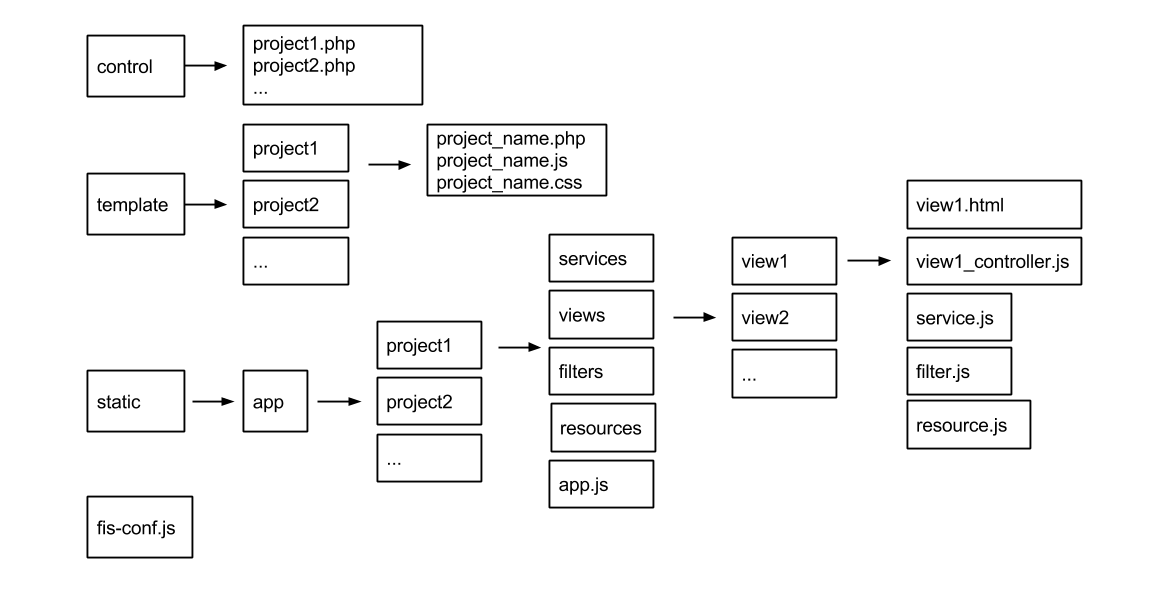
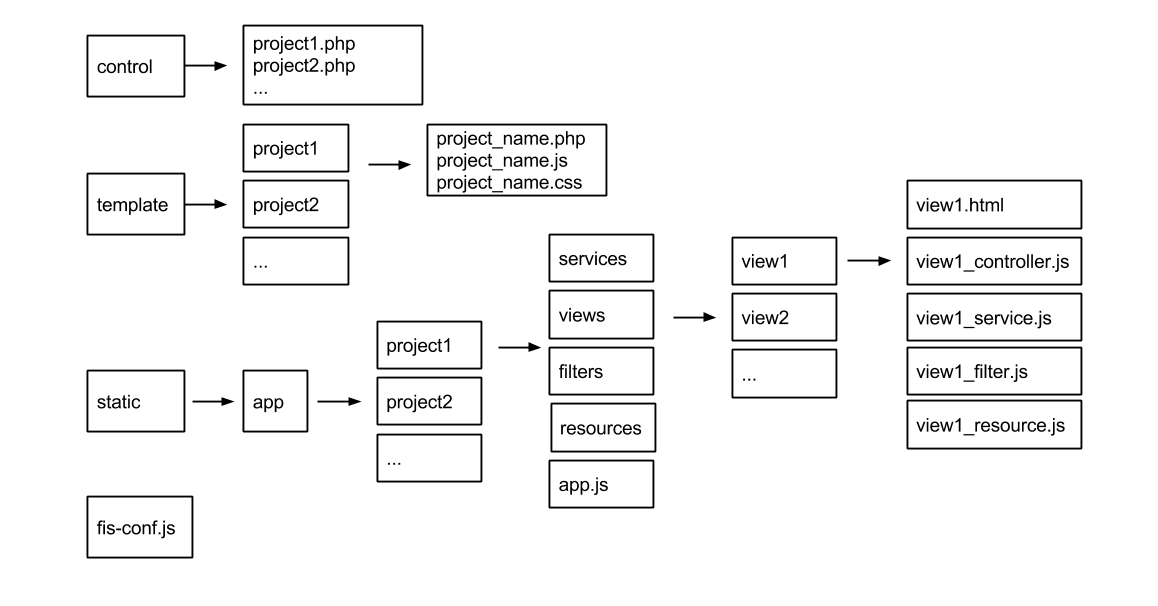
Site updated: 2014-11-13 10:23:18

Changed region(s): [[0.7772, 0.4752, 0.9326, 0.7426]]

diff --git a/2014/11/12/angularjs-new-dev-pattern/index.html b/2014/11/12/angularjs-new-dev-pattern/index.html
@@ -1,1 +1,1 @@
-<!DOCTYPE HTML><html><head><meta charset="utf-8"><title>内部平台静态开发方案2.0 | JSBear</title><meta name="author" content="JSBear Team"><meta name="description" content="我们是一群搞前端的熊孩子:()"><meta name="viewport" content="width=device-width,initial-scale=1,maximum-scale=1"><meta property="og:title" content="内部平台静态开发方案2.0"><meta property="og:site_name" content="JSBear"><meta property="og:image" content="undefined"><link href="/tbfe-home/favicon.png" rel="icon"><link rel="stylesheet" href="/tbfe-home/css/jquery.tocify.css" media="screen" type="text/css"><link rel="stylesheet" href="/tbfe-home/css/bootstrap.min.css" media="screen" type="text/css"><link rel="stylesheet" href="/tbfe-home/material/css/ripples.css" media="screen" type="text/css"><link rel="stylesheet" href="/tbfe-home/material/css/material.css" media="screen" type="text/css"><link rel="stylesheet" href="/tbfe-home/css/font-awesome.css" media="screen" type="text/css"><link rel="stylesheet" href="/tbfe-home/css/style.css" media="screen" type="text/css"><link rel="stylesheet" href="/tbfe-home/css/highlight.light.css" media="screen" type="text/css"><link rel="stylesheet" href="/tbfe-home/css/google-fonts.css" media="screen" type="text/css"><!--[if lt IE 9]><script src="//html5shiv.googlecode.com/svn/trunk/html5.js"></script><![endif]--><script src="/tbfe-home/js/jquery-2.0.3.min.js"></script></head><body><nav id="main-nav" class="navbar navbar-default" role="navigation"><div class="container"><button type="button" class="navbar-header navbar-toggle" data-toggle="collapse" data-target=".navbar-collapse"><span class="sr-only">Toggle navigation</span> <span class="icon-bar"></span> <span class="icon-bar"></span> <span class="icon-bar"></span></button> <a class="navbar-brand" href="/tbfe-home/">JSBear</a><div class="collapse navbar-collapse nav-menu"><ul class="nav navbar-nav navbar-right"><li><a href="/tbfe-home/"><i class="fa fa-home"></i>首页</a></li><li><a href="/tbfe-home/archives"><i class="fa fa-list"></i>存档</a></li><li><a href="/tbfe-home/categories"><i class="fa fa-folder"></i>分类</a></li><li><a href="/tbfe-home/categories/文档/"><i class="mdi-action-description"></i>文档</a></li><li><a href="/tbfe-home/works"><i class="mdi-action-polymer"></i>Works</a></li><li><a href="/tbfe-home/about"><i class="fa fa-info-circle"></i>关于</a></li><li><a href="/tbfe-home/atom.xml"><i class="fa fa-rss"></i>RSS</a></li></ul></div></div></nav><div class="clearfix"></div><div class="container"><div class="content"><div class="page-header"><h1>内部平台静态开发方案2.0</h1></div><div class="row post"><div class="col-md-9"><div class="mypage"><div class="row widget-wrapper"><div class="post-meta-item"><i class="fa fa-clock-o"></i> <span class="post-time">2014-11-12 20:16:39</span></div><div class="post-meta-item"><i class="mdi-action-face-unlock" title="作者"></i> <span>wayou</span></div><div class="post-meta-item"><i class="fa fa-folder"></i> <a class="label label-success" href="/tbfe-home/categories/文档/">文档</a></div><div class="post-meta-item"><i class="fa fa-tags"></i> <a class="label label-warning" href="/tbfe-home/tags/angularjs/">angularjs</a> <a class="label label-warning" href="/tbfe-home/tags/开发/">开发</a></div></div><p>感谢前人「刘凯，洪堂」的成果，站在巨人的肩上继续走得更远！</p><p>基于自己开发的开发过程，和收集的各种不便，内部平台现对之前的静态开发方案进行了一次升级。<br>这次改进是尝试性的，为是探求更好的开发方式，改进现有工作流程，提升效率和使开发更方便。<br>升级之后初始代码将变得更轻量，文件及三方库的添加更自由，同时更加符合Angular官方规范。</p><p>同时也作为新开发方式的一种探索和实践，为新版脚手架提供参考。</p><a id="more"></a><h1 id="模块化">模块化</h1><p>改变后的文案更多强调使用AngularJS原生及推荐的项目组织方式进行开发。特别是模块化方面，使用AngularJS自身的模块化系统，取消requrejs按需要加载的方式。AngularJS本身支持模块化，将所有文件一次性加载到页面，只有被用到的模块才会被实例化执行其中代码，所以没有必要引入<code>requirejs</code>。</p><h1 id="目录结构">目录结构</h1><p><img src="/tbfe-home/asset/posts/2014-11-12-angularjs-new-dev-pattern/angular.png" alt=""></p><p>上图只列出了与静态文案相关的目录及文件，现描述如下：</p><h2 id="control">control</h2><p>control 文件与原来的一样</p><h2 id="template">template</h2><p><code>template 文件</code>里引用 <code>devplatcommon 基础库</code> 模块的部分与原来一样，只是引用项目启动文件的方式进行了改变。</p><p>fis配置中将会在 <code>static/app/project_name/</code> 下生成一个 <code>app_all.js</code> 文件，在template里面将原来引用<code>app.js</code>的地方替换为引用此文件。</p><figure class="highlight php"><figcaption><span>before</span></figcaption><table><tr><td class="gutter"><pre><div class="line">1</div><div class="line">2</div><div class="line">3</div><div class="line">4</div><div class="line">5</div><div class="line">6</div></pre></td><td class="code"><pre><div class="line"><span class="preprocessor">&lt;?php</span></div><div class="line"><span class="comment">/**</span></div><div class="line"> * 如下代码用将由框架负责处理js资源加载到页面</div><div class="line"> */</div><div class="line"><span class="keyword">echo</span> HTML::js(<span class="string">'project_name/app.js'</span>, <span class="string">"module_name"</span>);</div><div class="line"><span class="preprocessor">?&gt;</span></div></pre></td></tr></table></figure><figure class="highlight php"><figcaption><span>after</span></figcaption><table><tr><td class="gutter"><pre><div class="line">1</div><div class="line">2</div><div class="line">3</div><div class="line">4</div><div class="line">5</div><div class="line">6</div></pre></td><td class="code"><pre><div class="line"><span class="preprocessor">&lt;?php</span></div><div class="line"><span class="comment">/**</span></div><div class="line"> * 如下代码用将由框架负责处理js资源加载到页面</div><div class="line"> */</div><div class="line"><span class="keyword">echo</span> HTML::js(<span class="string">'app/project_name/app_all.js'</span>, <span class="string">"module_name"</span>);</div><div class="line"><span class="preprocessor">?&gt;</span></div></pre></td></tr></table></figure><p>区别在于之前在template里引用的是AngularJS的主程序入口文件，而现在的<code>app_all.js</code>是整个AngularJS程序所有文件合并的结果。</p><p>同时，在<code>template</code> 里面的<code>&lt;body&gt;</code> 标签指定<code>ng-app</code>:</p><figure class="highlight html"><table><tr><td class="gutter"><pre><div class="line">1</div></pre></td><td class="code"><pre><div class="line"><span class="tag">&lt;<span class="title">body</span> <span class="attribute">ng-app</span>=<span class="value">"project_name"</span>&gt;</span></div></pre></td></tr></table></figure><h2 id="static_文件夹">static 文件夹</h2><p>static里面项目的组织有变化。</p><p>先是一个<code>app文件夹</code>，以将AngularJS程序与其他静态文件区分开。</p><p>app下面是以项目为单位分开的文件夹，里面存放项目主要的静态文件，主要是:</p><ul><li><code>app.js</code> AngularJS程序的主入口文件</li><li><code>views</code>文件夹，存放部分视图<code>HTML</code> 文件及视图对应的<code>Controller</code> 文件</li><li><code>services</code> 文件夹，存放本项目公用服务</li><li><code>resources</code> 文件夹，存放本项目公用<code>resource</code>文件</li><li><code>filters</code> 文件夹，存放本项目公用<code>filters</code></li></ul><h3 id="app-js">app.js</h3><p>app.js为angular程序主入口文件，与原来的app.js文件有较大区别。</p><p>这里开始定义的JS文件未采用<code>require</code>方式定义模块，而是直接通过AngularJS方式定义。</p><p>先是定义项目主模块并注入基础服务：</p><figure class="highlight js"><table><tr><td class="gutter"><pre><div class="line">1</div><div class="line">2</div><div class="line">3</div><div class="line">4</div><div class="line">5</div><div class="line">6</div></pre></td><td class="code"><pre><div class="line"><span class="keyword">var</span> <span class="built_in">module</span> = angular.module(<span class="string">'project_name'</span>, [</div><div class="line">    <span class="string">'ngRoute'</span>,</div><div class="line">    <span class="string">'ngResource'</span>,</div><div class="line">    <span class="string">'ui.bootstrap'</span>,</div><div class="line">    <span class="string">'ngCommon'</span></div><div class="line">]);</div></pre></td></tr></table></figure><p>之后是对项目进行初始配置,主要是设置路由。<br>由于不用异步拉取相应部分视图的<code>controller</code>文件，所以不用像<code>ngCommon</code> 库里面定义的<code>routeResolverProvider</code>服务那样去手动处理，而是通过AngularJS原生的方式来配置路由及指定<code>controller</code>。</p><figure class="highlight js"><figcaption><span>before</span></figcaption><table><tr><td class="gutter"><pre><div class="line">1</div><div class="line">2</div><div class="line">3</div><div class="line">4</div><div class="line">5</div><div class="line">6</div><div class="line">7</div><div class="line">8</div><div class="line">9</div><div class="line">10</div><div class="line">11</div><div class="line">12</div><div class="line">13</div><div class="line">14</div><div class="line">15</div><div class="line">16</div><div class="line">17</div><div class="line">18</div><div class="line">19</div><div class="line">20</div><div class="line">21</div><div class="line">22</div><div class="line">23</div><div class="line">24</div><div class="line">25</div><div class="line">26</div><div class="line">27</div><div class="line">28</div><div class="line">29</div></pre></td><td class="code"><pre><div class="line"><span class="built_in">module</span>.config([</div><div class="line">    <span class="string">'$routeProvider'</span>,</div><div class="line">    <span class="string">'routeResolverProvider'</span>,</div><div class="line">    <span class="string">'$httpProvider'</span>,</div><div class="line">    <span class="function"><span class="keyword">function</span><span class="params">($routeProvider, routeResolverProvider, $httpProvider)</span> </span>{</div><div class="line">        <span class="keyword">var</span> route = routeResolverProvider.route;</div><div class="line">        $routeProvider</div><div class="line"></div><div class="line">        .when(<span class="string">'/view1'</span>, route.resolve({</div><div class="line">            templateUrl: __uri(<span class="string">'./view/view1/view1.html'</span>),</div><div class="line">            controllerUrl: __uri(<span class="string">'./view/view1_controller.js'</span>)</div><div class="line">        }))</div><div class="line"></div><div class="line">        .when(<span class="string">'/view2'</span>, route.resolve({</div><div class="line">            templateUrl: __uri(<span class="string">'./view2/view2.html'</span>),</div><div class="line">            controllerUrl: __uri(<span class="string">'./view2/view2_controller.js'</span>)</div><div class="line">        }))</div><div class="line"></div><div class="line">        .otherwise({</div><div class="line">            redirectTo: <span class="string">'/view1'</span></div><div class="line">        });</div><div class="line"></div><div class="line">    }</div><div class="line">]);</div><div class="line"></div><div class="line"><span class="comment">// Dynamic loading controller register setup.</span></div><div class="line">angular.module(<span class="string">'ngCommon'</span>).setupRegister(<span class="built_in">module</span>);</div><div class="line"></div><div class="line">angular.bootstrap(<span class="built_in">document</span>, [<span class="built_in">module</span>.name]);</div></pre></td></tr></table></figure><figure class="highlight js"><figcaption><span>after</span></figcaption><table><tr><td class="gutter"><pre><div class="line">1</div><div class="line">2</div><div class="line">3</div><div class="line">4</div><div class="line">5</div><div class="line">6</div><div class="line">7</div><div class="line">8</div><div class="line">9</div><div class="line">10</div><div class="line">11</div><div class="line">12</div><div class="line">13</div><div class="line">14</div><div class="line">15</div><div class="line">16</div><div class="line">17</div><div class="line">18</div><div class="line">19</div></pre></td><td class="code"><pre><div class="line"><span class="built_in">module</span>.config([</div><div class="line">    <span class="string">'$routeProvider'</span>,</div><div class="line">    <span class="string">'$httpProvider'</span>,</div><div class="line">    <span class="function"><span class="keyword">function</span><span class="params">($routeProvider, $httpProvider)</span> </span>{</div><div class="line">        $routeProvider</div><div class="line">            .when(<span class="string">'/view1'</span>, {</div><div class="line">                templateUrl: __uri(<span class="string">'./views/view1/view1.html'</span>),</div><div class="line">                controller: <span class="string">'View1Ctrl'</span></div><div class="line">            })</div><div class="line">            .when(<span class="string">'/view2'</span>, {</div><div class="line">                templateUrl: __uri(<span class="string">'./views/view2/view2.html'</span>),</div><div class="line">                controller: <span class="string">'View2Ctrl'</span></div><div class="line">            })</div><div class="line"></div><div class="line">        .otherwise({</div><div class="line">            redirectTo: <span class="string">'/view1'</span></div><div class="line">        });</div><div class="line">    }</div><div class="line">]);</div></pre></td></tr></table></figure><p>其中在<code>controller</code> 里指定controller名称,而不是对应的文件路径。同时也不需要原先<code>app.js</code> 中最后两行注册模块及启动程序的代码。</p><h3 id="views文件夹"><code>views</code>文件夹</h3><p>存放部分视图<code>HTML</code> 文件及视图对应的<code>Controller</code> 文件，如果还需要本部分视图单独使用的<code>filter</code>,<code>service</code> 或<code>resource</code>等，将单独的js文件放到此目录即可。</p><h3 id="services_文件夹"><code>services</code> 文件夹</h3><p>存放本项目公用服务。进行复杂业务逻辑的处理或繁杂运算等。</p><h3 id="resources_文件夹"><code>resources</code> 文件夹</h3><p>存放本项目公用<code>resource</code>文件, 用于与后端交互，获取及提交数据。</p><h3 id="filters_文件夹"><code>filters</code> 文件夹</h3><p>存放本项目公用<code>filters</code>。控制页面显示，特别是一些需要处理数字文本转换，控制日期格式等的场景，还有就是页面上需要进行条件性的展示。</p><h1 id="fis-conf-js">fis-conf.js</h1><p>利用fis将所有AngularJS程序需要的JS文件打包成一个，之后再引入到<code>template</code> 文件里。</p><figure class="highlight js"><table><tr><td class="gutter"><pre><div class="line">1</div><div class="line">2</div><div class="line">3</div><div class="line">4</div><div class="line">5</div><div class="line">6</div><div class="line">7</div><div class="line">8</div><div class="line">9</div><div class="line">10</div><div class="line">11</div></pre></td><td class="code"><pre><div class="line"><span class="comment">//配置要合并的代码，即之前的__merge_conf.php配置的内容</span></div><div class="line">fis.config.merge({</div><div class="line">    pack: {</div><div class="line">        <span class="string">'static/app/project1/app_all.js'</span>: [</div><div class="line">            <span class="regexp">/static\/app\/project1\/.*.js/</span></div><div class="line">        ],</div><div class="line">        <span class="string">'static/app/project2/app_all.js'</span>: [</div><div class="line">            <span class="regexp">/static\/app\/project2\/.*.js/</span></div><div class="line">        ]</div><div class="line">    }</div><div class="line">});</div></pre></td></tr></table></figure><h1 id="总结">总结</h1><p>除了以上变更，其他部分与之前的设计是一样的。对于开发者来说，使用起来没有额外的学习成本，只需专注开发部分视图部分，如果后期脚架支持，则开发者完全感受不到变化。<br>升级文案的落实过程中，遇到一些文件加载的问题，经过多次尝试努力后成功，感谢东伟的帮助，段君的提议等。</p><p>祝同学们开发愉快! Happy Coding~</p></div><div><center><div class="pagination-wrapper"><a class="btn btn-default disabled"><i class="fa fa-chevron-left"></i>上一篇</a> <a class="btn btn-default" href="/tbfe-home/"><i class="fa fa-home"></i>首页</a> <a class="btn btn-default" href="/tbfe-home/2014/10/22/hello-world/" class="alignright next">下一篇<i class="fa fa-chevron-right"></i></a></div></center></div><section id="comment"><div class="ds-thread" data-thread-key="_posts/2014-11-12-angularjs-new-dev-pattern.md" data-title="内部平台静态开发方案2.0" data-url="http://wayou.github.io/2014/11/12/angularjs-new-dev-pattern/"></div><script type="text/javascript">var duoshuoQuery={short_name:"tbfe"};!function(){var t=document.createElement("script");t.type="text/javascript",t.async=!0,t.src=("https:"==document.location.protocol?"https:":"http:")+"//static.duoshuo.com/embed.js",t.charset="UTF-8",(document.getElementsByTagName("head")[0]||document.getElementsByTagName("body")[0]).appendChild(t)}();</script></section></div><div class="col-md-3"><div id="toc"></div></div></div></div></div><div class="container-narrow"><footer><p>我们是来自贴吧搞前端的一群熊孩子:()</p><p>&copy; 2014 <a href="http://wayou.github.io">JSBear Team</a></p></footer></div><a id="gotop" href="#"><i class="fa fa-chevron-circle-up"></i></a><script src="/tbfe-home/js/jquery.imagesloaded.min.js"></script><script src="/tbfe-home/js/gallery.js"></script><script src="/tbfe-home/js/bootstrap.min.js"></script><script src="/tbfe-home/material/js/ripples.js"></script><script src="/tbfe-home/material/js/material.js"></script><script src="/tbfe-home/js/jqueryui.js"></script><script src="/tbfe-home/js/jquery.tocify.js"></script><script src="/tbfe-home/js/main.js"></script></body></html>
+<!DOCTYPE HTML><html><head><meta charset="utf-8"><title>内部平台静态开发方案2.0 | JSBear</title><meta name="author" content="JSBear Team"><meta name="description" content="我们是一群搞前端的熊孩子:()"><meta name="viewport" content="width=device-width,initial-scale=1,maximum-scale=1"><meta property="og:title" content="内部平台静态开发方案2.0"><meta property="og:site_name" content="JSBear"><meta property="og:image" content="undefined"><link href="/tbfe-home/favicon.png" rel="icon"><link rel="stylesheet" href="/tbfe-home/css/jquery.tocify.css" media="screen" type="text/css"><link rel="stylesheet" href="/tbfe-home/css/bootstrap.min.css" media="screen" type="text/css"><link rel="stylesheet" href="/tbfe-home/material/css/ripples.css" media="screen" type="text/css"><link rel="stylesheet" href="/tbfe-home/material/css/material.css" media="screen" type="text/css"><link rel="stylesheet" href="/tbfe-home/css/font-awesome.css" media="screen" type="text/css"><link rel="stylesheet" href="/tbfe-home/css/style.css" media="screen" type="text/css"><link rel="stylesheet" href="/tbfe-home/css/highlight.light.css" media="screen" type="text/css"><link rel="stylesheet" href="/tbfe-home/css/google-fonts.css" media="screen" type="text/css"><!--[if lt IE 9]><script src="//html5shiv.googlecode.com/svn/trunk/html5.js"></script><![endif]--><script src="/tbfe-home/js/jquery-2.0.3.min.js"></script></head><body><nav id="main-nav" class="navbar navbar-default" role="navigation"><div class="container"><button type="button" class="navbar-header navbar-toggle" data-toggle="collapse" data-target=".navbar-collapse"><span class="sr-only">Toggle navigation</span> <span class="icon-bar"></span> <span class="icon-bar"></span> <span class="icon-bar"></span></button> <a class="navbar-brand" href="/tbfe-home/">JSBear</a><div class="collapse navbar-collapse nav-menu"><ul class="nav navbar-nav navbar-right"><li><a href="/tbfe-home/"><i class="fa fa-home"></i>首页</a></li><li><a href="/tbfe-home/archives"><i class="fa fa-list"></i>存档</a></li><li><a href="/tbfe-home/categories"><i class="fa fa-folder"></i>分类</a></li><li><a href="/tbfe-home/categories/文档/"><i class="mdi-action-description"></i>文档</a></li><li><a href="/tbfe-home/works"><i class="mdi-action-polymer"></i>Works</a></li><li><a href="/tbfe-home/about"><i class="fa fa-info-circle"></i>关于</a></li><li><a href="/tbfe-home/atom.xml"><i class="fa fa-rss"></i>RSS</a></li></ul></div></div></nav><div class="clearfix"></div><div class="container"><div class="content"><div class="page-header"><h1>内部平台静态开发方案2.0</h1></div><div class="row post"><div class="col-md-9"><div class="mypage"><div class="row widget-wrapper"><div class="post-meta-item"><i class="fa fa-clock-o"></i> <span class="post-time">2014-11-12 20:16:39</span></div><div class="post-meta-item"><i class="mdi-action-face-unlock" title="作者"></i> <span>wayou</span></div><div class="post-meta-item"><i class="fa fa-folder"></i> <a class="label label-success" href="/tbfe-home/categories/文档/">文档</a></div><div class="post-meta-item"><i class="fa fa-tags"></i> <a class="label label-warning" href="/tbfe-home/tags/angularjs/">angularjs</a> <a class="label label-warning" href="/tbfe-home/tags/开发/">开发</a></div></div><p>感谢前人「刘凯，洪堂」的成果，站在巨人的肩上继续走得更远！</p><p>基于自己开发的开发过程，和收集的各种不便，内部平台现对之前的静态开发方案进行了一次升级。<br>这次改进是尝试性的，为是探求更好的开发方式，改进现有工作流程，提升效率和使开发更方便。<br>升级之后初始代码将变得更轻量，文件及三方库的添加更自由，同时更加符合Angular官方规范。</p><p>同时也作为新开发方式的一种探索和实践，为新版脚手架提供参考。</p><a id="more"></a><h1 id="模块化">模块化</h1><p>改变后的文案更多强调使用AngularJS原生及推荐的项目组织方式进行开发。特别是模块化方面，使用AngularJS自身的模块化系统，取消requrejs按需要加载的方式。AngularJS本身支持模块化，将所有文件一次性加载到页面，只有被用到的模块才会被实例化执行其中代码，所以没有必要引入<code>requirejs</code>。</p><h1 id="目录结构">目录结构</h1><p><img src="/tbfe-home/asset/posts/2014-11-12-angularjs-new-dev-pattern/angular.png" alt=""></p><p>上图只列出了与静态文案相关的目录及文件，现描述如下：</p><h2 id="control">control</h2><p>control 文件与原来的一样</p><h2 id="template">template</h2><p><code>template 文件</code>里引用 <code>devplatcommon 基础库</code> 模块的部分与原来一样，只是引用项目启动文件的方式进行了改变。</p><p>fis配置中将会在 <code>static/app/project_name/</code> 下生成一个 <code>app_all.js</code> 文件，在template里面将原来引用<code>app.js</code>的地方替换为引用此文件。</p><figure class="highlight php"><figcaption><span>before</span></figcaption><table><tr><td class="gutter"><pre><div class="line">1</div><div class="line">2</div><div class="line">3</div><div class="line">4</div><div class="line">5</div><div class="line">6</div></pre></td><td class="code"><pre><div class="line"><span class="preprocessor">&lt;?php</span></div><div class="line"><span class="comment">/**</span></div><div class="line"> * 如下代码用将由框架负责处理js资源加载到页面</div><div class="line"> */</div><div class="line"><span class="keyword">echo</span> HTML::js(<span class="string">'project_name/app.js'</span>, <span class="string">"module_name"</span>);</div><div class="line"><span class="preprocessor">?&gt;</span></div></pre></td></tr></table></figure><figure class="highlight php"><figcaption><span>after</span></figcaption><table><tr><td class="gutter"><pre><div class="line">1</div><div class="line">2</div><div class="line">3</div><div class="line">4</div><div class="line">5</div><div class="line">6</div></pre></td><td class="code"><pre><div class="line"><span class="preprocessor">&lt;?php</span></div><div class="line"><span class="comment">/**</span></div><div class="line"> * 如下代码用将由框架负责处理js资源加载到页面</div><div class="line"> */</div><div class="line"><span class="keyword">echo</span> HTML::js(<span class="string">'app/project_name/app_all.js'</span>, <span class="string">"module_name"</span>);</div><div class="line"><span class="preprocessor">?&gt;</span></div></pre></td></tr></table></figure><p>区别在于之前在template里引用的是AngularJS的主程序入口文件，而现在的<code>app_all.js</code>是整个AngularJS程序所有文件合并的结果。</p><p>同时，在<code>template</code> 里面的<code>&lt;body&gt;</code> 标签指定<code>ng-app</code>:</p><figure class="highlight html"><table><tr><td class="gutter"><pre><div class="line">1</div></pre></td><td class="code"><pre><div class="line"><span class="tag">&lt;<span class="title">body</span> <span class="attribute">ng-app</span>=<span class="value">"project_name"</span>&gt;</span></div></pre></td></tr></table></figure><h2 id="static_文件夹">static 文件夹</h2><p>static里面项目的组织有变化。</p><p>先是一个<code>app文件夹</code>，以将AngularJS程序与其他静态文件区分开。</p><p>app下面是以项目为单位分开的文件夹，里面存放项目主要的静态文件，主要是:</p><ul><li><code>app.js</code> AngularJS程序的主入口文件</li><li><code>views</code>文件夹，存放部分视图<code>HTML</code> 文件及视图对应的<code>Controller</code> 文件</li><li><code>services</code> 文件夹，存放本项目公用服务</li><li><code>resources</code> 文件夹，存放本项目公用<code>resource</code>文件</li><li><code>filters</code> 文件夹，存放本项目公用<code>filters</code></li></ul><h3 id="app-js">app.js</h3><p>app.js为angular程序主入口文件，与原来的app.js文件有较大区别。</p><p>这里开始定义的JS文件未采用<code>require</code>方式定义模块，而是直接通过AngularJS方式定义。</p><p>先是定义项目主模块并注入基础服务：</p><figure class="highlight js"><table><tr><td class="gutter"><pre><div class="line">1</div><div class="line">2</div><div class="line">3</div><div class="line">4</div><div class="line">5</div><div class="line">6</div></pre></td><td class="code"><pre><div class="line"><span class="keyword">var</span> <span class="built_in">module</span> = angular.module(<span class="string">'project_name'</span>, [</div><div class="line">    <span class="string">'ngRoute'</span>,</div><div class="line">    <span class="string">'ngResource'</span>,</div><div class="line">    <span class="string">'ui.bootstrap'</span>,</div><div class="line">    <span class="string">'ngCommon'</span></div><div class="line">]);</div></pre></td></tr></table></figure><p>之后是对项目进行初始配置,主要是设置路由。<br>由于不用异步拉取相应部分视图的<code>controller</code>文件，所以不用像<code>ngCommon</code> 库里面定义的<code>routeResolverProvider</code>服务那样去手动处理，而是通过AngularJS原生的方式来配置路由及指定<code>controller</code>。</p><figure class="highlight js"><figcaption><span>before</span></figcaption><table><tr><td class="gutter"><pre><div class="line">1</div><div class="line">2</div><div class="line">3</div><div class="line">4</div><div class="line">5</div><div class="line">6</div><div class="line">7</div><div class="line">8</div><div class="line">9</div><div class="line">10</div><div class="line">11</div><div class="line">12</div><div class="line">13</div><div class="line">14</div><div class="line">15</div><div class="line">16</div><div class="line">17</div><div class="line">18</div><div class="line">19</div><div class="line">20</div><div class="line">21</div><div class="line">22</div><div class="line">23</div><div class="line">24</div><div class="line">25</div><div class="line">26</div><div class="line">27</div><div class="line">28</div><div class="line">29</div></pre></td><td class="code"><pre><div class="line"><span class="built_in">module</span>.config([</div><div class="line">    <span class="string">'$routeProvider'</span>,</div><div class="line">    <span class="string">'routeResolverProvider'</span>,</div><div class="line">    <span class="string">'$httpProvider'</span>,</div><div class="line">    <span class="function"><span class="keyword">function</span><span class="params">($routeProvider, routeResolverProvider, $httpProvider)</span> </span>{</div><div class="line">        <span class="keyword">var</span> route = routeResolverProvider.route;</div><div class="line">        $routeProvider</div><div class="line"></div><div class="line">        .when(<span class="string">'/view1'</span>, route.resolve({</div><div class="line">            templateUrl: __uri(<span class="string">'./view/view1/view1.html'</span>),</div><div class="line">            controllerUrl: __uri(<span class="string">'./view/view1_controller.js'</span>)</div><div class="line">        }))</div><div class="line"></div><div class="line">        .when(<span class="string">'/view2'</span>, route.resolve({</div><div class="line">            templateUrl: __uri(<span class="string">'./view2/view2.html'</span>),</div><div class="line">            controllerUrl: __uri(<span class="string">'./view2/view2_controller.js'</span>)</div><div class="line">        }))</div><div class="line"></div><div class="line">        .otherwise({</div><div class="line">            redirectTo: <span class="string">'/view1'</span></div><div class="line">        });</div><div class="line"></div><div class="line">    }</div><div class="line">]);</div><div class="line"></div><div class="line"><span class="comment">// Dynamic loading controller register setup.</span></div><div class="line">angular.module(<span class="string">'ngCommon'</span>).setupRegister(<span class="built_in">module</span>);</div><div class="line"></div><div class="line">angular.bootstrap(<span class="built_in">document</span>, [<span class="built_in">module</span>.name]);</div></pre></td></tr></table></figure><figure class="highlight js"><figcaption><span>after</span></figcaption><table><tr><td class="gutter"><pre><div class="line">1</div><div class="line">2</div><div class="line">3</div><div class="line">4</div><div class="line">5</div><div class="line">6</div><div class="line">7</div><div class="line">8</div><div class="line">9</div><div class="line">10</div><div class="line">11</div><div class="line">12</div><div class="line">13</div><div class="line">14</div><div class="line">15</div><div class="line">16</div><div class="line">17</div><div class="line">18</div><div class="line">19</div></pre></td><td class="code"><pre><div class="line"><span class="built_in">module</span>.config([</div><div class="line">    <span class="string">'$routeProvider'</span>,</div><div class="line">    <span class="string">'$httpProvider'</span>,</div><div class="line">    <span class="function"><span class="keyword">function</span><span class="params">($routeProvider, $httpProvider)</span> </span>{</div><div class="line">        $routeProvider</div><div class="line">            .when(<span class="string">'/view1'</span>, {</div><div class="line">                templateUrl: __uri(<span class="string">'./views/view1/view1.html'</span>),</div><div class="line">                controller: <span class="string">'View1Ctrl'</span></div><div class="line">            })</div><div class="line">            .when(<span class="string">'/view2'</span>, {</div><div class="line">                templateUrl: __uri(<span class="string">'./views/view2/view2.html'</span>),</div><div class="line">                controller: <span class="string">'View2Ctrl'</span></div><div class="line">            })</div><div class="line"></div><div class="line">        .otherwise({</div><div class="line">            redirectTo: <span class="string">'/view1'</span></div><div class="line">        });</div><div class="line">    }</div><div class="line">]);</div></pre></td></tr></table></figure><p>其中在<code>controller</code> 里指定controller名称,而不是对应的文件路径。同时也不需要原先<code>app.js</code> 中最后两行注册模块及启动程序的代码。</p><h3 id="views文件夹"><code>views</code>文件夹</h3><p>此文件夹下存放部分视图<code>HTML</code> 文件及视图对应的<code>Controller</code> 文件，按功能或者说按页面进行划分。</p><ul><li>view1</li><li>view2</li><li>…</li></ul><p>如果还需要本部分视图单独使用的<code>filter</code>,<code>service</code> 或<code>resource</code>等，将单独的js文件放到对应部分视图目录下即可。</p><ul><li>view1.html</li><li>view1_controller.js</li><li>…</li></ul><p>其中，现在的开发方式不需要在<code>view.html</code> 中指定<code>ng-congtroller</code>, 因为这个工作已经在路由配置时做了。</p><h3 id="services_文件夹"><code>services</code> 文件夹</h3><p>存放本项目公用服务。进行复杂业务逻辑的处理或繁杂运算等。</p><h3 id="resources_文件夹"><code>resources</code> 文件夹</h3><p>存放本项目公用<code>resource</code>文件, 用于与后端交互，获取及提交数据。</p><h3 id="filters_文件夹"><code>filters</code> 文件夹</h3><p>存放本项目公用<code>filters</code>。控制页面显示，特别是一些需要处理数字文本转换，控制日期格式等的场景，还有就是页面上需要进行条件性的展示。</p><h1 id="fis-conf-js">fis-conf.js</h1><p>利用fis将所有AngularJS程序需要的JS文件打包成一个，之后再引入到<code>template</code> 文件里。</p><figure class="highlight js"><table><tr><td class="gutter"><pre><div class="line">1</div><div class="line">2</div><div class="line">3</div><div class="line">4</div><div class="line">5</div><div class="line">6</div><div class="line">7</div><div class="line">8</div><div class="line">9</div><div class="line">10</div><div class="line">11</div></pre></td><td class="code"><pre><div class="line"><span class="comment">//配置要合并的代码，即之前的__merge_conf.php配置的内容</span></div><div class="line">fis.config.merge({</div><div class="line">    pack: {</div><div class="line">        <span class="string">'static/app/project1/app_all.js'</span>: [</div><div class="line">            <span class="regexp">/static\/app\/project1\/.*.js/</span></div><div class="line">        ],</div><div class="line">        <span class="string">'static/app/project2/app_all.js'</span>: [</div><div class="line">            <span class="regexp">/static\/app\/project2\/.*.js/</span></div><div class="line">        ]</div><div class="line">    }</div><div class="line">});</div></pre></td></tr></table></figure><h1 id="总结">总结</h1><p>除了以上变更，其他部分与之前的设计是一样的。对于开发者来说，使用起来没有额外的学习成本，只需专注开发部分视图部分，如果后期脚架支持，则开发者完全感受不到变化。<br>升级文案的落实过程中，遇到一些文件加载的问题，经过多次尝试努力后成功，感谢东伟的帮助，段君的提议等。</p><p>祝同学们开发愉快! Happy Coding~</p></div><div><center><div class="pagination-wrapper"><a class="btn btn-default disabled"><i class="fa fa-chevron-left"></i>上一篇</a> <a class="btn btn-default" href="/tbfe-home/"><i class="fa fa-home"></i>首页</a> <a class="btn btn-default" href="/tbfe-home/2014/10/22/hello-world/" class="alignright next">下一篇<i class="fa fa-chevron-right"></i></a></div></center></div><section id="comment"><div class="ds-thread" data-thread-key="_posts/2014-11-12-angularjs-new-dev-pattern.md" data-title="内部平台静态开发方案2.0" data-url="http://wayou.github.io/2014/11/12/angularjs-new-dev-pattern/"></div><script type="text/javascript">var duoshuoQuery={short_name:"tbfe"};!function(){var t=document.createElement("script");t.type="text/javascript",t.async=!0,t.src=("https:"==document.location.protocol?"https:":"http:")+"//static.duoshuo.com/embed.js",t.charset="UTF-8",(document.getElementsByTagName("head")[0]||document.getElementsByTagName("body")[0]).appendChild(t)}();</script></section></div><div class="col-md-3"><div id="toc"></div></div></div></div></div><div class="container-narrow"><footer><p>我们是来自贴吧搞前端的一群熊孩子:()</p><p>&copy; 2014 <a href="http://wayou.github.io">JSBear Team</a></p></footer></div><a id="gotop" href="#"><i class="fa fa-chevron-circle-up"></i></a><script src="/tbfe-home/js/jquery.imagesloaded.min.js"></script><script src="/tbfe-home/js/gallery.js"></script><script src="/tbfe-home/js/bootstrap.min.js"></script><script src="/tbfe-home/material/js/ripples.js"></script><script src="/tbfe-home/material/js/material.js"></script><script src="/tbfe-home/js/jqueryui.js"></script><script src="/tbfe-home/js/jquery.tocify.js"></script><script src="/tbfe-home/js/main.js"></script></body></html>
